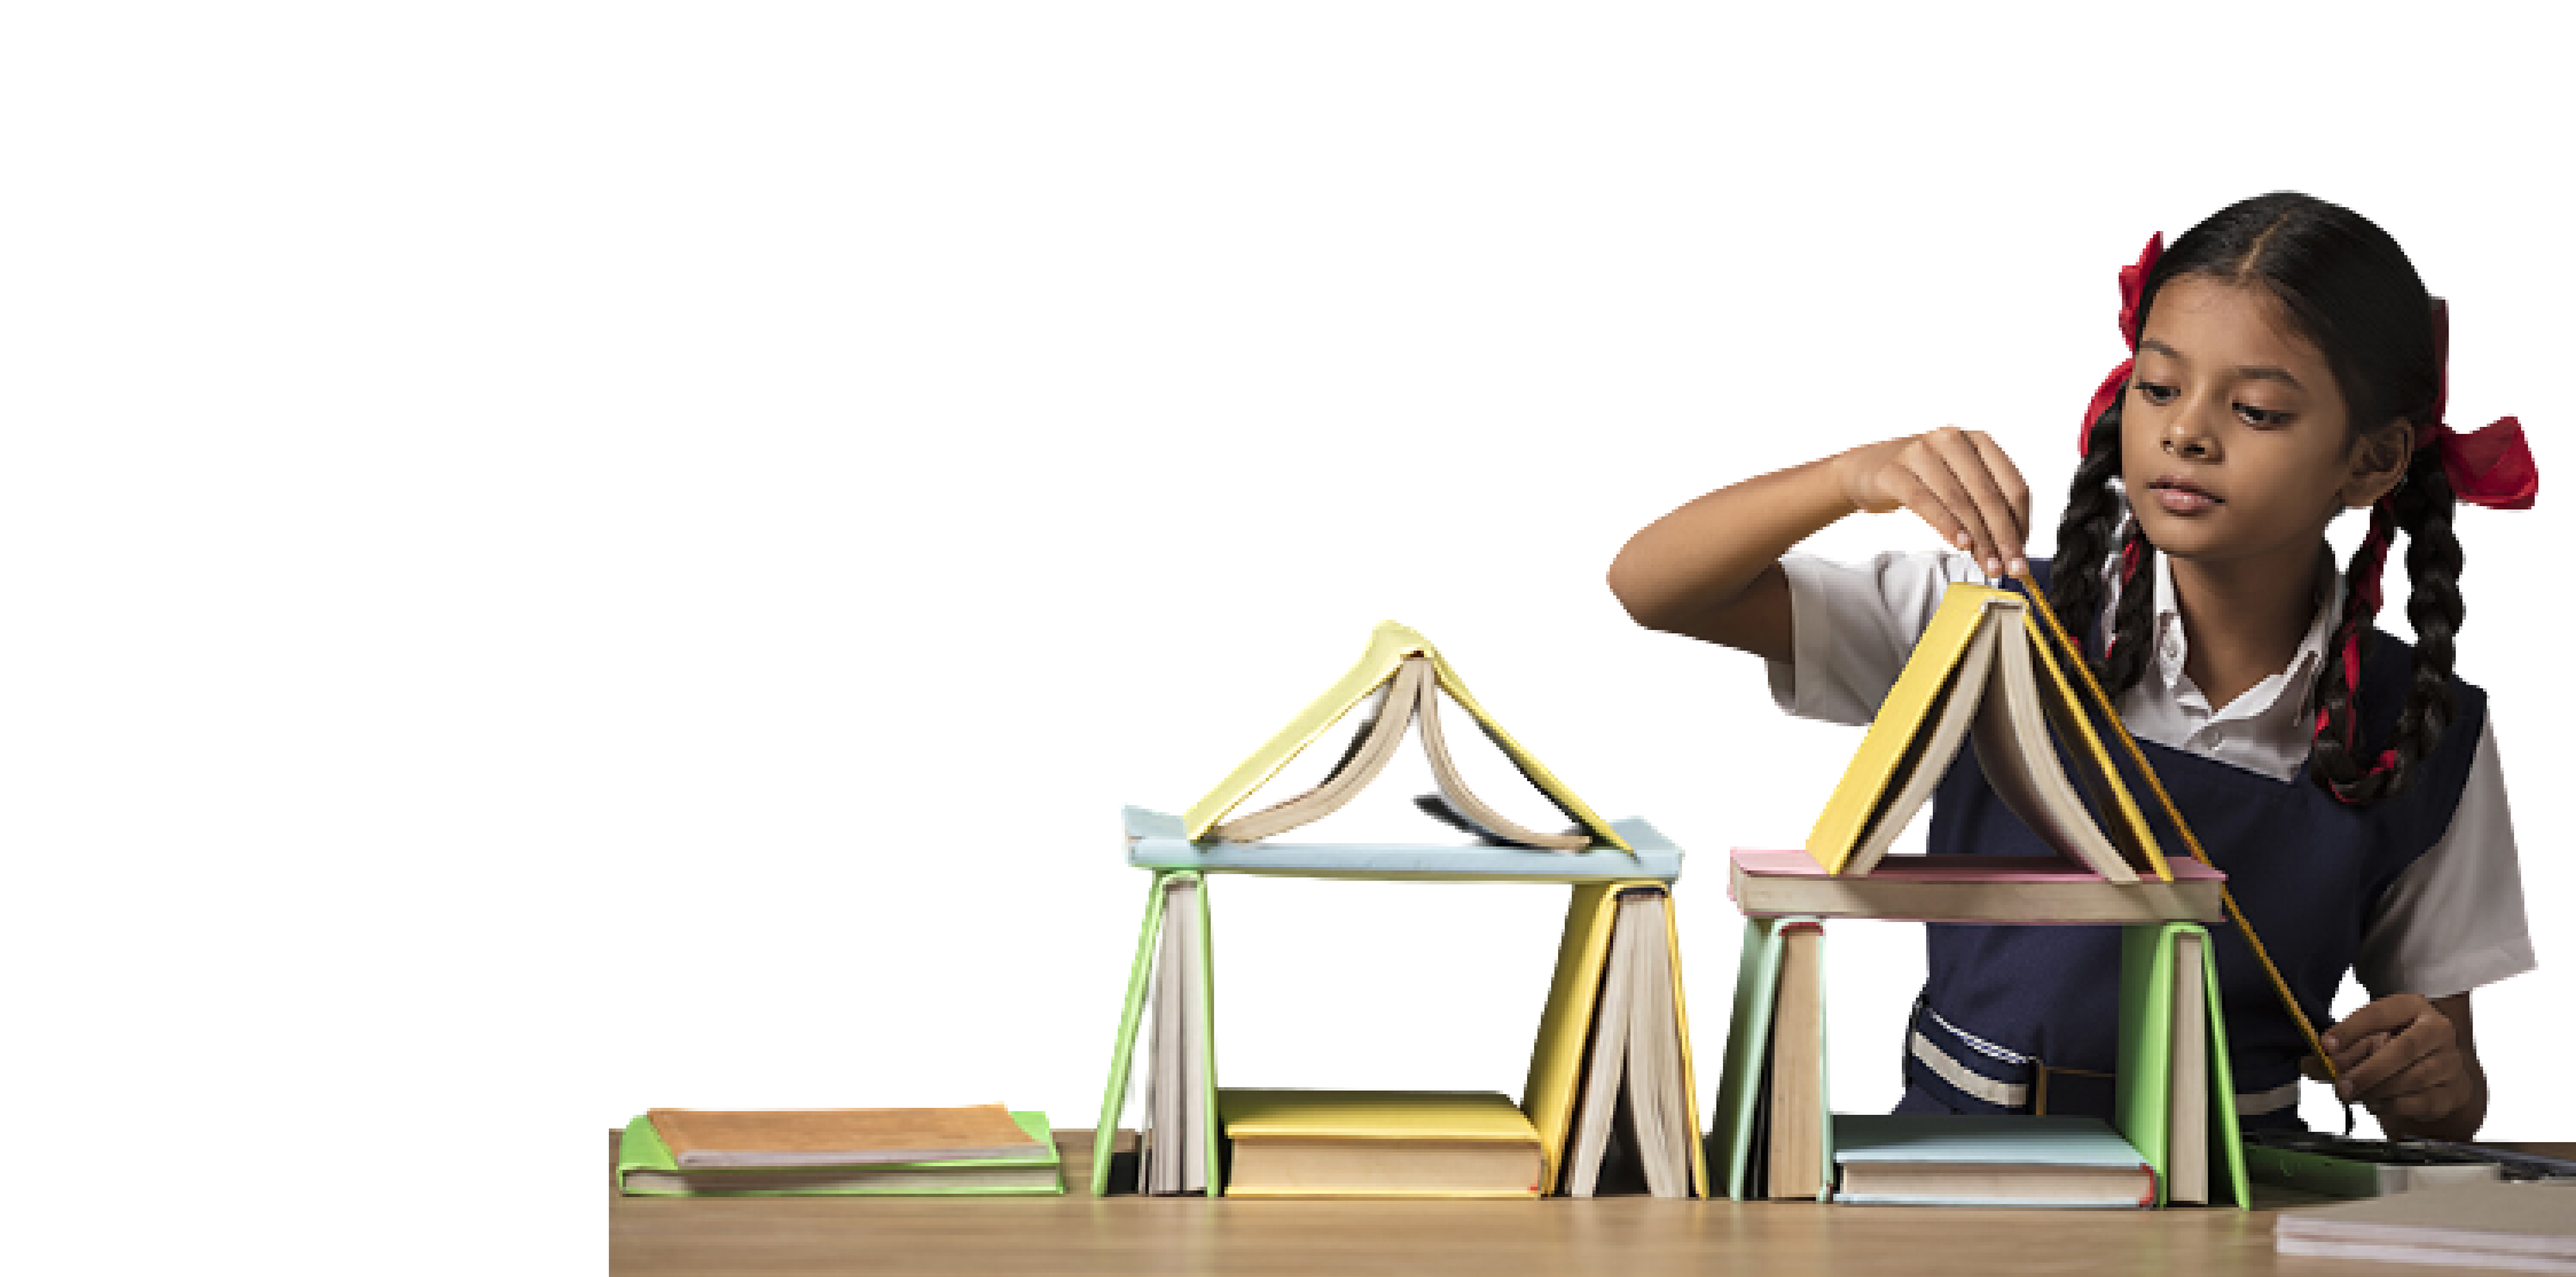
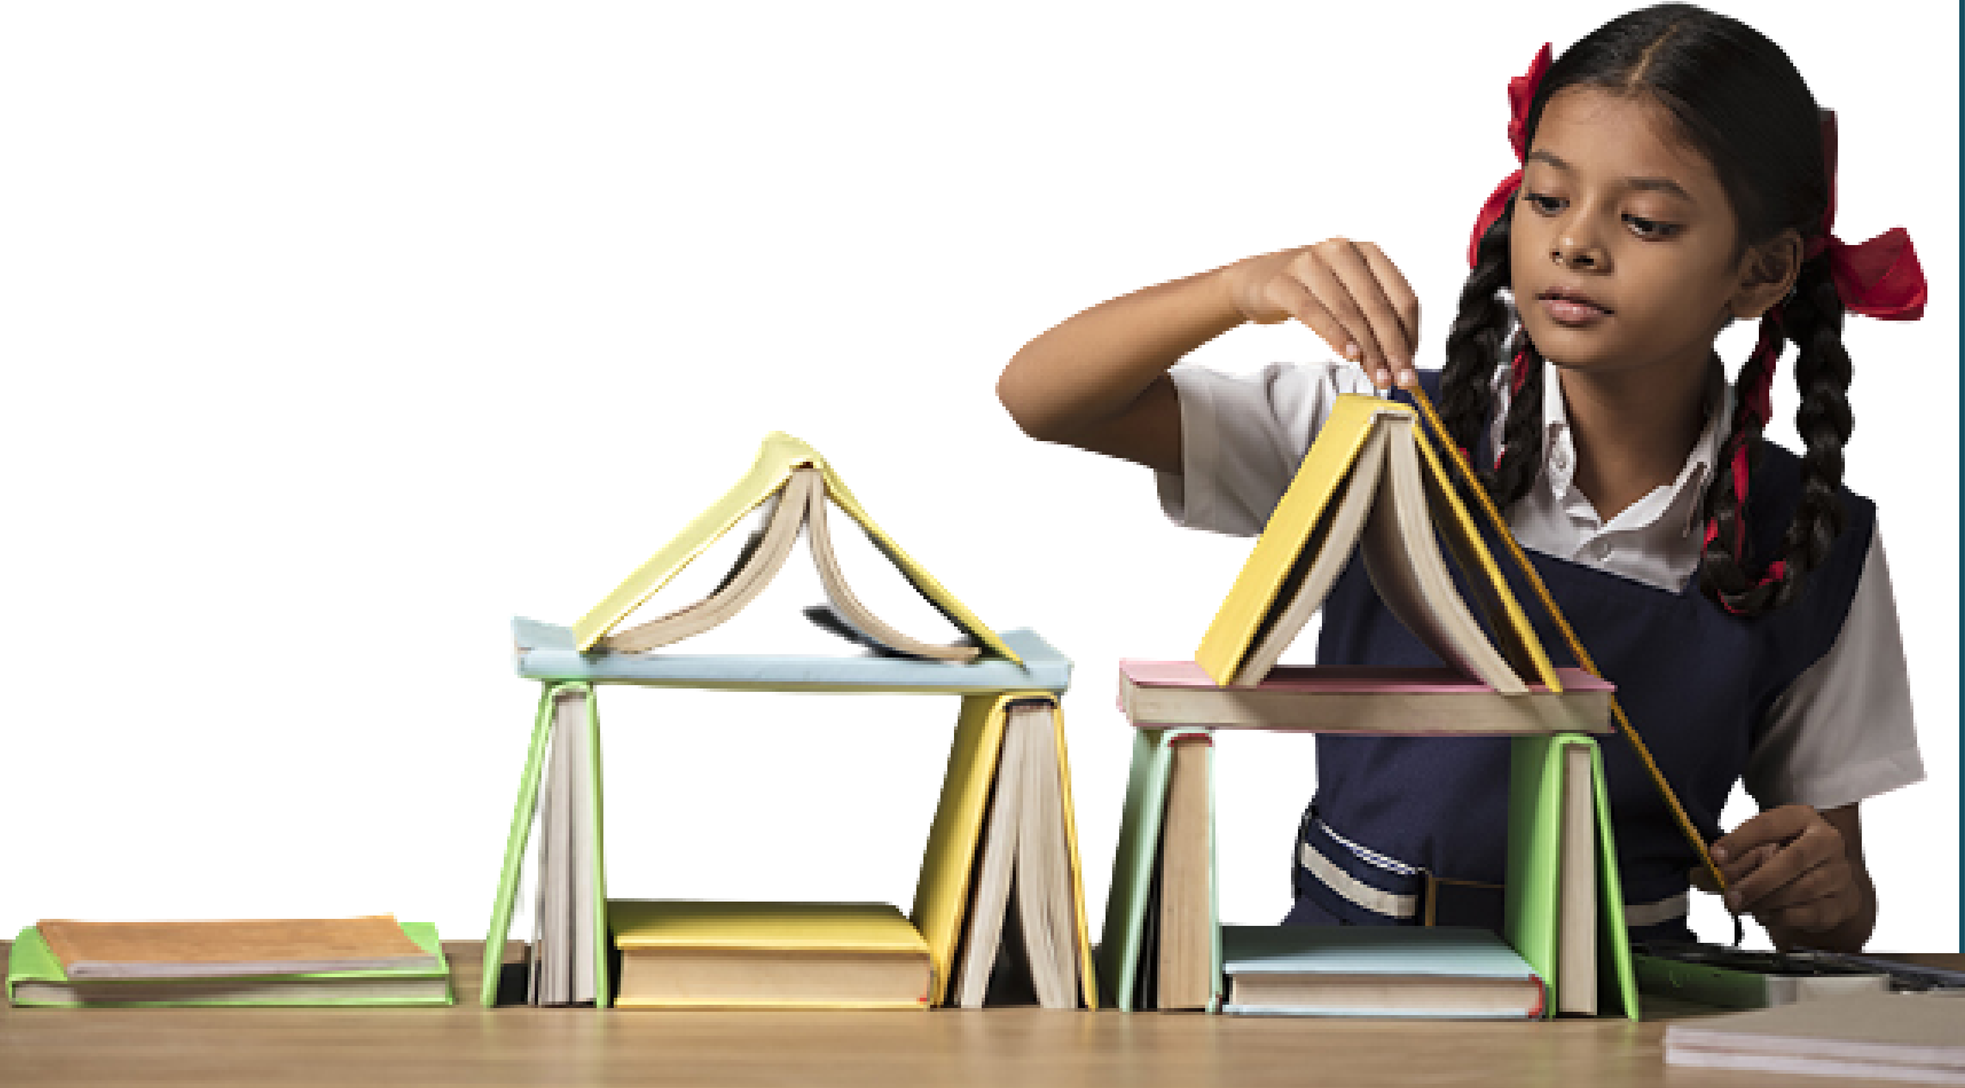
carousel corrected

diff --git a/pages/index.js b/pages/index.js
@@ -254,7 +254,7 @@ export default function Home() {
                 <img src="/only pic-01.png" />
               </Grid>
             </Grid>             */}
-                <img src="/carosel-01.png" />
+                <img src="/only pic-03.png" />
                 <div className="text">
                   <h1>What is the purpose of Vidyartha?</h1>
                   <p>The purpose of Vidyartha is to <b>make spiritualwisdom literature available in the school libraries.</b>Children need a <b>strong foundation of moral values, the ability to handle emotionally turbulent situations, strong determination, and healthy habits, all theses needs can be effectively fulfilled by spiritual literature.</b> They also instill within us healthy pride about our own native culture & heritage and explain the deeper meanings behind them. Vidyartha is committed to gift this literature to the schools.</p>
@@ -270,7 +270,7 @@ export default function Home() {
                 <img src="/only pic-02.png" />
               </Grid>
             </Grid>             */}
-                <img src="/carosel-02.png" />
+                <img src="/only pic-04.png" />
                 <div className="text">
                   <h1>How does Vidyartha work?</h1>
                   <p>The Vidyartha is a Crowdfunding platform where alumni can find their school & sponsor their choice amount to gift spiritual literature as gratitude for their schools. They can also share this Campaign with other alumni to quickly complete the target.</p>

diff --git a/src/styles/index.scss b/src/styles/index.scss
@@ -240,6 +240,8 @@ body {
     }
     .slide1 {
         position: relative;
+        
+        background-image: linear-gradient(to bottom right, #FFFFFF, #8cbdb3);
         // background: url('/Carosel-01.png') 0% 0% no-repeat padding-box;
         
         .text {
@@ -261,6 +263,8 @@ body {
     }
     .slide2 {
         position: relative;
+
+        background-image: linear-gradient(to bottom right, #FFFFFF, #8cbdb3);
         // background: url('/Carosel-02.png') 0% 0% no-repeat padding-box;
         
         .text {
